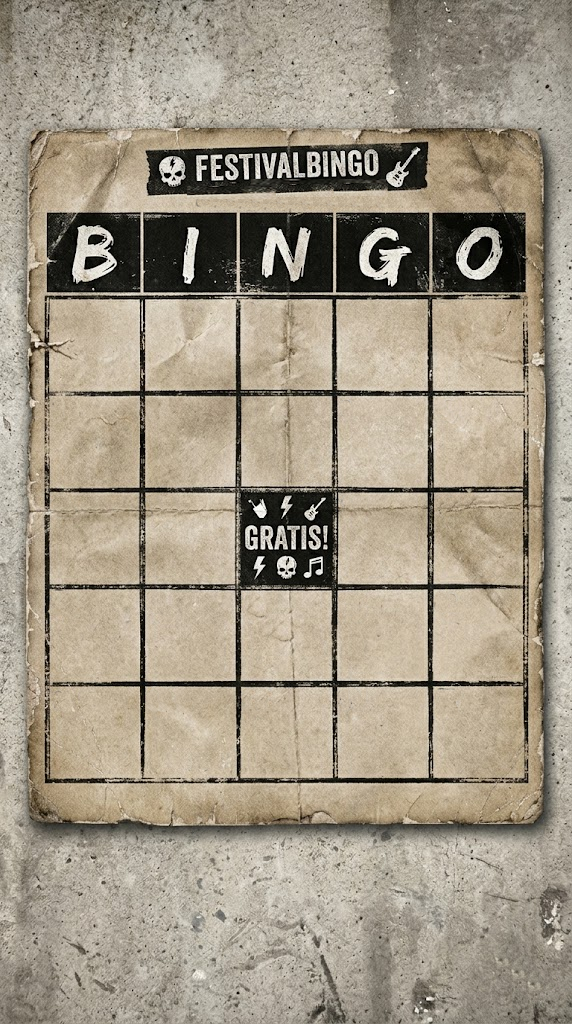
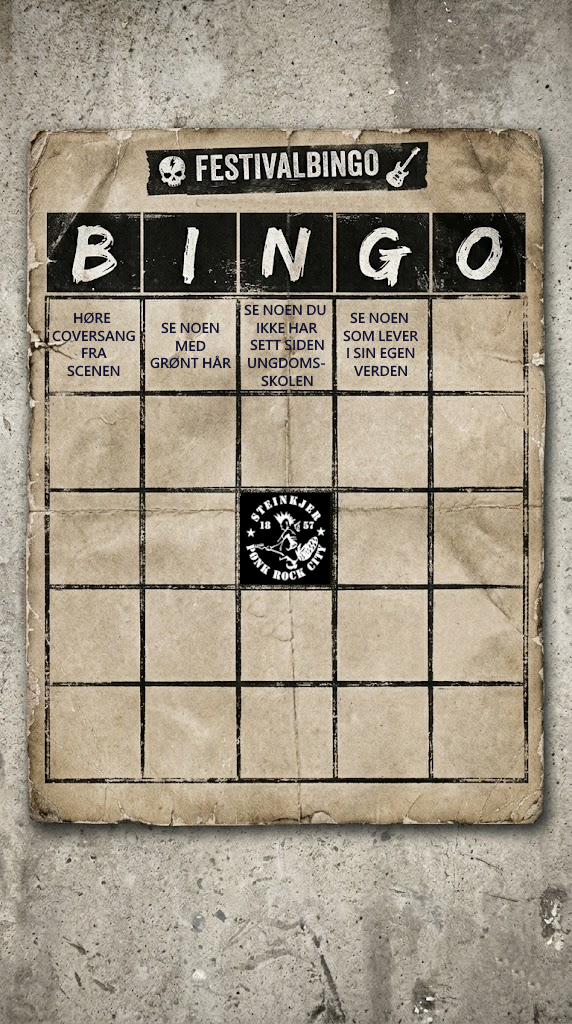
K

diff --git a/public/bodilelskerrosenborg/index.html b/public/bodilelskerrosenborg/index.html
@@ -4,7 +4,7 @@
   <meta charset="utf-8"/>
   <meta name="viewport" content="width=device-width, initial-scale=1"/>
   <title>Festivalbingo</title>
-  <link href="https://fonts.googleapis.com/css2?family=Nunito:wght@700;800&display=swap" rel="stylesheet"/>
+  <link href="https://fonts.googleapis.com/css2?family=Nunito:wght@700;800&family=Rock+Salt&display=swap" rel="stylesheet"/>
   <style>
     * { box-sizing: border-box; margin: 0; padding: 0; }
     body { background: #1a0a2e; font-family: 'Nunito', sans-serif; color: #fff; }
@@ -39,29 +39,47 @@
       background: transparent; border: none;
     }
     .cell.checked::after {
-      content: '✓';
+      content: '';
       position: absolute; inset: 0;
-      display: flex; align-items: center; justify-content: center;
-      font-size: 8vw; color: #c00; font-weight: 900;
-      background: rgba(255,20,20,0.25); border-radius: 4px;
+      background-image: var(--stamp);
+      background-repeat: no-repeat;
+      background-position: center;
+      background-size: 90%;
     }
-    .cell.line.checked::after { color: #ffd700; background: rgba(255,215,0,0.25); }
+    .cell.line.checked::after { filter: drop-shadow(0 0 6px rgba(255,215,0,0.8)); }
 
-    .player-bar { position: absolute; top: 1%; width: 100%; text-align: center; z-index: 10; }
-    .player-bar span { font-size: 14px; font-weight: 700; color: #fbbf24; text-shadow: 1px 1px 4px rgba(0,0,0,0.8); }
-    .player-bar button { background: none; border: none; color: rgba(255,255,255,0.5); font-size: 11px; cursor: pointer; margin-left: 6px; font-family: 'Nunito', sans-serif; }
+    .player-bar { position: absolute; top: 13%; width: 100%; text-align: center; z-index: 10; }
+    .player-bar span {
+      font-size: 7vw; font-weight: 800; color: #000;
+      text-shadow: none; cursor: pointer;
+      font-family: 'Rock Salt', cursive;
+      letter-spacing: 2px;
+    }
+    .player-bar span:hover { opacity: 0.7; }
 
     #shout { position: absolute; top: 5%; width: 100%; text-align: center; font-size: 2rem; color: #fbbf24; font-weight: 800; display: none; z-index: 10; text-shadow: 2px 2px 8px rgba(0,0,0,0.9); }
 
-    #others-section { background: rgba(0,0,0,0.6); padding: 12px 16px; }
-    .others-title { text-align: center; font-size: 12px; font-weight: 800; color: rgba(255,255,255,0.5); text-transform: uppercase; letter-spacing: 2px; margin-bottom: 8px; }
-    .other { display: flex; align-items: center; gap: 8px; margin-bottom: 5px; }
-    .other-name { font-weight: 700; font-size: 13px; min-width: 80px; }
-    .pbar { flex: 1; height: 5px; background: rgba(255,255,255,0.15); border-radius: 3px; overflow: hidden; }
-    .pbar-fill { height: 100%; background: #ff6eb4; border-radius: 3px; }
-    .other-score { font-size: 12px; color: rgba(255,255,255,0.6); }
-    .bingo-tag { font-size: 11px; font-weight: 800; color: #fbbf24; }
-    .refresh-btn { display: block; margin: 10px auto 0; background: rgba(255,255,255,0.1); border: 1px solid rgba(255,255,255,0.2); color: rgba(255,255,255,0.6); padding: 6px 16px; border-radius: 20px; font-family: 'Nunito', sans-serif; font-size: 12px; cursor: pointer; }
+    .other-name-btn {
+      font-family: 'Rock Salt', cursive;
+      font-size: 5vw;
+      background: none; border: none;
+      color: #fff; cursor: pointer;
+      text-shadow: 1px 1px 4px rgba(0,0,0,0.8);
+      padding: 4px 8px;
+      opacity: 0.85;
+    }
+    .other-name-btn:active { opacity: 0.5; }
+    .other-name-btn.viewing {
+      color: #fbbf24;
+      text-decoration: underline;
+    }
+    .view-banner {
+      position: absolute; top: 1%; width: 100%;
+      text-align: center; z-index: 10;
+      font-family: 'Rock Salt', cursive;
+      font-size: 4vw; color: #fbbf24;
+      text-shadow: 1px 1px 4px rgba(0,0,0,0.9);
+    }
   </style>
 </head>
 <body>
@@ -74,17 +92,14 @@
 <div id="game-screen">
   <img id="bg-img" src="https://www.heiarosenb.org/bodilelskerrosenborg/bingoblokk.png" alt=""/>
   <div class="player-bar">
-    <span id="disp-name"></span>
-    <button onclick="changeName()">bytt navn</button>
+    <span id="disp-name" onclick="changeName()" title="Trykk for å bytte navn"></span>
   </div>
   <div id="shout">BINGO! 🎉</div>
   <div class="overlay" id="overlay"></div>
 </div>
 
-<div id="others-section" style="display:none">
-  <div class="others-title">Venninners fremgang</div>
-  <div id="others"></div>
-  <button class="refresh-btn" onclick="loadOthers()">↻ Oppdater</button>
+<div id="others-section" style="display:none; padding: 16px 8px; text-align: center;">
+  <div id="others-names" style="display:flex; flex-wrap:wrap; justify-content:center; gap:12px;"></div>
 </div>
 
 <script src="https://cdn.jsdelivr.net/npm/firebase@9.23.0/firebase-app-compat.min.js"></script>
@@ -146,45 +161,23 @@
     document.getElementById('disp-name').textContent = playerName;
     var img = document.getElementById('bg-img');
     if (img.complete && img.naturalWidth > 0) {
-      buildCells();
+      buildCells(checked, true);
     } else {
-      img.onload = buildCells;
+      img.onload = function() { buildCells(checked, true); };
     }
     loadOthers();
   }
 
-  function buildCells() {
-    var img = document.getElementById('bg-img');
-    var scale = img.offsetWidth / IMG_W;
-    var cellW = (COL[1] - COL[0]) * scale;
-    var cellH = (ROW[1] - ROW[0]) * scale;
-    var overlay = document.getElementById('overlay');
-    overlay.innerHTML = '';
-
-    CELL_PX.forEach(function(pos, i) {
-      var div = document.createElement('div');
-      div.className = 'cell';
-      div.style.left = (pos[0] * scale) + 'px';
-      div.style.top  = (pos[1] * scale) + 'px';
-      div.style.width  = cellW + 'px';
-      div.style.height = cellH + 'px';
-      // Debug: show red border
-      div.style.border = '2px solid red';
-      div.style.background = 'rgba(255,0,0,0.15)';
-      if (i !== 12) {
-        div.onclick = (function(idx){ return function(){ toggle(idx); }; })(i);
-      }
-      overlay.appendChild(div);
-    });
-    updateChecked();
-  }
 
   function updateChecked() {
     var lines = getBingoLines();
     var cells = document.querySelectorAll('.cell');
     cells.forEach(function(cell, i) {
       cell.classList.remove('checked', 'line');
-      if (checked[i]) cell.classList.add('checked');
+      if (checked[i]) {
+        cell.classList.add('checked');
+        cell.style.setProperty('--stamp', 'url("' + getStamp(i) + '")');
+      }
       if (lines.has(i)) cell.classList.add('line');
     });
     document.getElementById('shout').style.display = lines.size > 0 ? 'block' : 'none';
@@ -197,8 +190,6 @@
     updateChecked();
     saveProgress();
   }
-
-  function getBingoLines() {
     var r = new Set();
     [[0,1,2,3,4],[5,6,7,8,9],[10,11,12,13,14],[15,16,17,18,19],[20,21,22,23,24],
      [0,5,10,15,20],[1,6,11,16,21],[2,7,12,17,22],[3,8,13,18,23],[4,9,14,19,24],
@@ -218,25 +209,115 @@
     }).catch(function(){});
   }
 
+  var BASE = 'https://www.heiarosenb.org/bodilelskerrosenborg/';
+  var STAMPS = [1,2,3,4,5,6,7,8].map(function(n){ return BASE+'stamp'+n+'.png'; });
+
+  // Assign a random stamp to each cell (stored in localStorage so it stays consistent)
+  var stampAssign = JSON.parse(localStorage.getItem('fbingo_stamps') || '{}');
+  function getStamp(i) {
+    if (!stampAssign[i]) {
+      stampAssign[i] = STAMPS[Math.floor(Math.random() * STAMPS.length)];
+      localStorage.setItem('fbingo_stamps', JSON.stringify(stampAssign));
+    }
+    return stampAssign[i];
+  }
+
+  function firstName(name) {
+    return name.split(' ')[0];
+  }
+
   window.loadOthers = function() {
     var myKey = playerName.toLowerCase().replace(/\s+/g, '');
     db.collection('festival_bingo').get().then(function(snap) {
       var others = snap.docs.map(function(d){ return d.data(); })
         .filter(function(d){ return d.name.toLowerCase().replace(/\s+/g,'') !== myKey; })
         .sort(function(a,b){ return b.count - a.count; });
-      var el = document.getElementById('others');
-      if (!others.length) {
-        el.innerHTML = '<p style="text-align:center;color:rgba(255,255,255,0.4);font-size:13px;padding:8px">Ingen andre har startet ennå!</p>';
-        return;
-      }
-      el.innerHTML = others.map(function(p) {
-        return '<div class="other"><span class="other-name">'+p.name+'</span>'
-          +'<div class="pbar"><div class="pbar-fill" style="width:'+Math.round(p.count/25*100)+'%"></div></div>'
-          +(p.bingo ? '<span class="bingo-tag">BINGO!</span>' : '<span class="other-score">'+p.count+'/25</span>')
-          +'</div>';
-      }).join('');
+
+      var el = document.getElementById('others-names');
+      el.innerHTML = '';
+      others.forEach(function(p) {
+        var btn = document.createElement('button');
+        btn.className = 'other-name-btn' + (viewingPlayer === p.name ? ' viewing' : '');
+        btn.textContent = firstName(p.name);
+        btn.onclick = function() {
+          if (viewingPlayer === p.name) {
+            // Toggle back to own board
+            viewingPlayer = null;
+            showOwnBoard();
+          } else {
+            viewingPlayer = p.name;
+            showOtherBoard(p);
+          }
+          // Update button states
+          document.querySelectorAll('.other-name-btn').forEach(function(b) {
+            b.classList.remove('viewing');
+          });
+          if (viewingPlayer) btn.classList.add('viewing');
+        };
+        el.appendChild(btn);
+      });
     }).catch(function(){});
   };
+
+  function showOwnBoard() {
+    document.getElementById('bg-img').src = 'https://www.heiarosenb.org/bodilelskerrosenborg/bingoblokk.png';
+    document.getElementById('disp-name').textContent = playerName;
+    document.querySelector('.player-bar').style.display = 'block';
+    document.getElementById('shout').style.display = getBingoLines().size > 0 ? 'block' : 'none';
+    // Rebuild with own checked data
+    buildCells(checked, true);
+  }
+
+  function showOtherBoard(p) {
+    document.getElementById('bg-img').src = 'https://www.heiarosenb.org/bodilelskerrosenborg/bingoblokk.png';
+    document.getElementById('disp-name').textContent = firstName(p.name);
+    document.querySelector('.player-bar').style.display = 'block';
+    document.getElementById('shout').style.display = 'none';
+    // Show their checked state, not clickable
+    buildCells(p.checked || {}, false);
+  }
+
+  function buildCells(checkedData, isOwn) {
+    var img = document.getElementById('bg-img');
+    var scale = img.offsetWidth / IMG_W;
+    var cellW = (COL[1] - COL[0]) * scale;
+    var cellH = (ROW[1] - ROW[0]) * scale;
+    var overlay = document.getElementById('overlay');
+    overlay.innerHTML = '';
+    var lines = isOwn ? getBingoLines() : getOtherLines(checkedData);
+
+    CELL_PX.forEach(function(pos, i) {
+      var div = document.createElement('div');
+      div.className = 'cell';
+      if (checkedData[i]) {
+        div.classList.add('checked');
+        var stamp = isOwn ? getStamp(i) : STAMPS[i % STAMPS.length];
+        div.style.setProperty('--stamp', 'url("' + stamp + '")');
+      }
+      if (lines.has(i)) div.classList.add('line');
+      div.style.left   = (pos[0] * scale) + 'px';
+      div.style.top    = (pos[1] * scale) + 'px';
+      div.style.width  = cellW + 'px';
+      div.style.height = cellH + 'px';
+      if (isOwn && i !== 12) {
+        div.onclick = (function(idx){ return function(){ toggle(idx); }; })(i);
+      } else {
+        div.style.pointerEvents = 'none';
+      }
+      overlay.appendChild(div);
+    });
+    if (isOwn) document.getElementById('shout').style.display = lines.size > 0 ? 'block' : 'none';
+  }
+
+  function getOtherLines(c) {
+    var r = new Set();
+    [[0,1,2,3,4],[5,6,7,8,9],[10,11,12,13,14],[15,16,17,18,19],[20,21,22,23,24],
+     [0,5,10,15,20],[1,6,11,16,21],[2,7,12,17,22],[3,8,13,18,23],[4,9,14,19,24],
+     [0,6,12,18,24],[4,8,12,16,20]].forEach(function(l) {
+      if (l.every(function(i){ return i===12 || c[i]; })) l.forEach(function(i){ r.add(i); });
+    });
+    return r;
+  }
 
   setInterval(loadOthers, 30000);
 